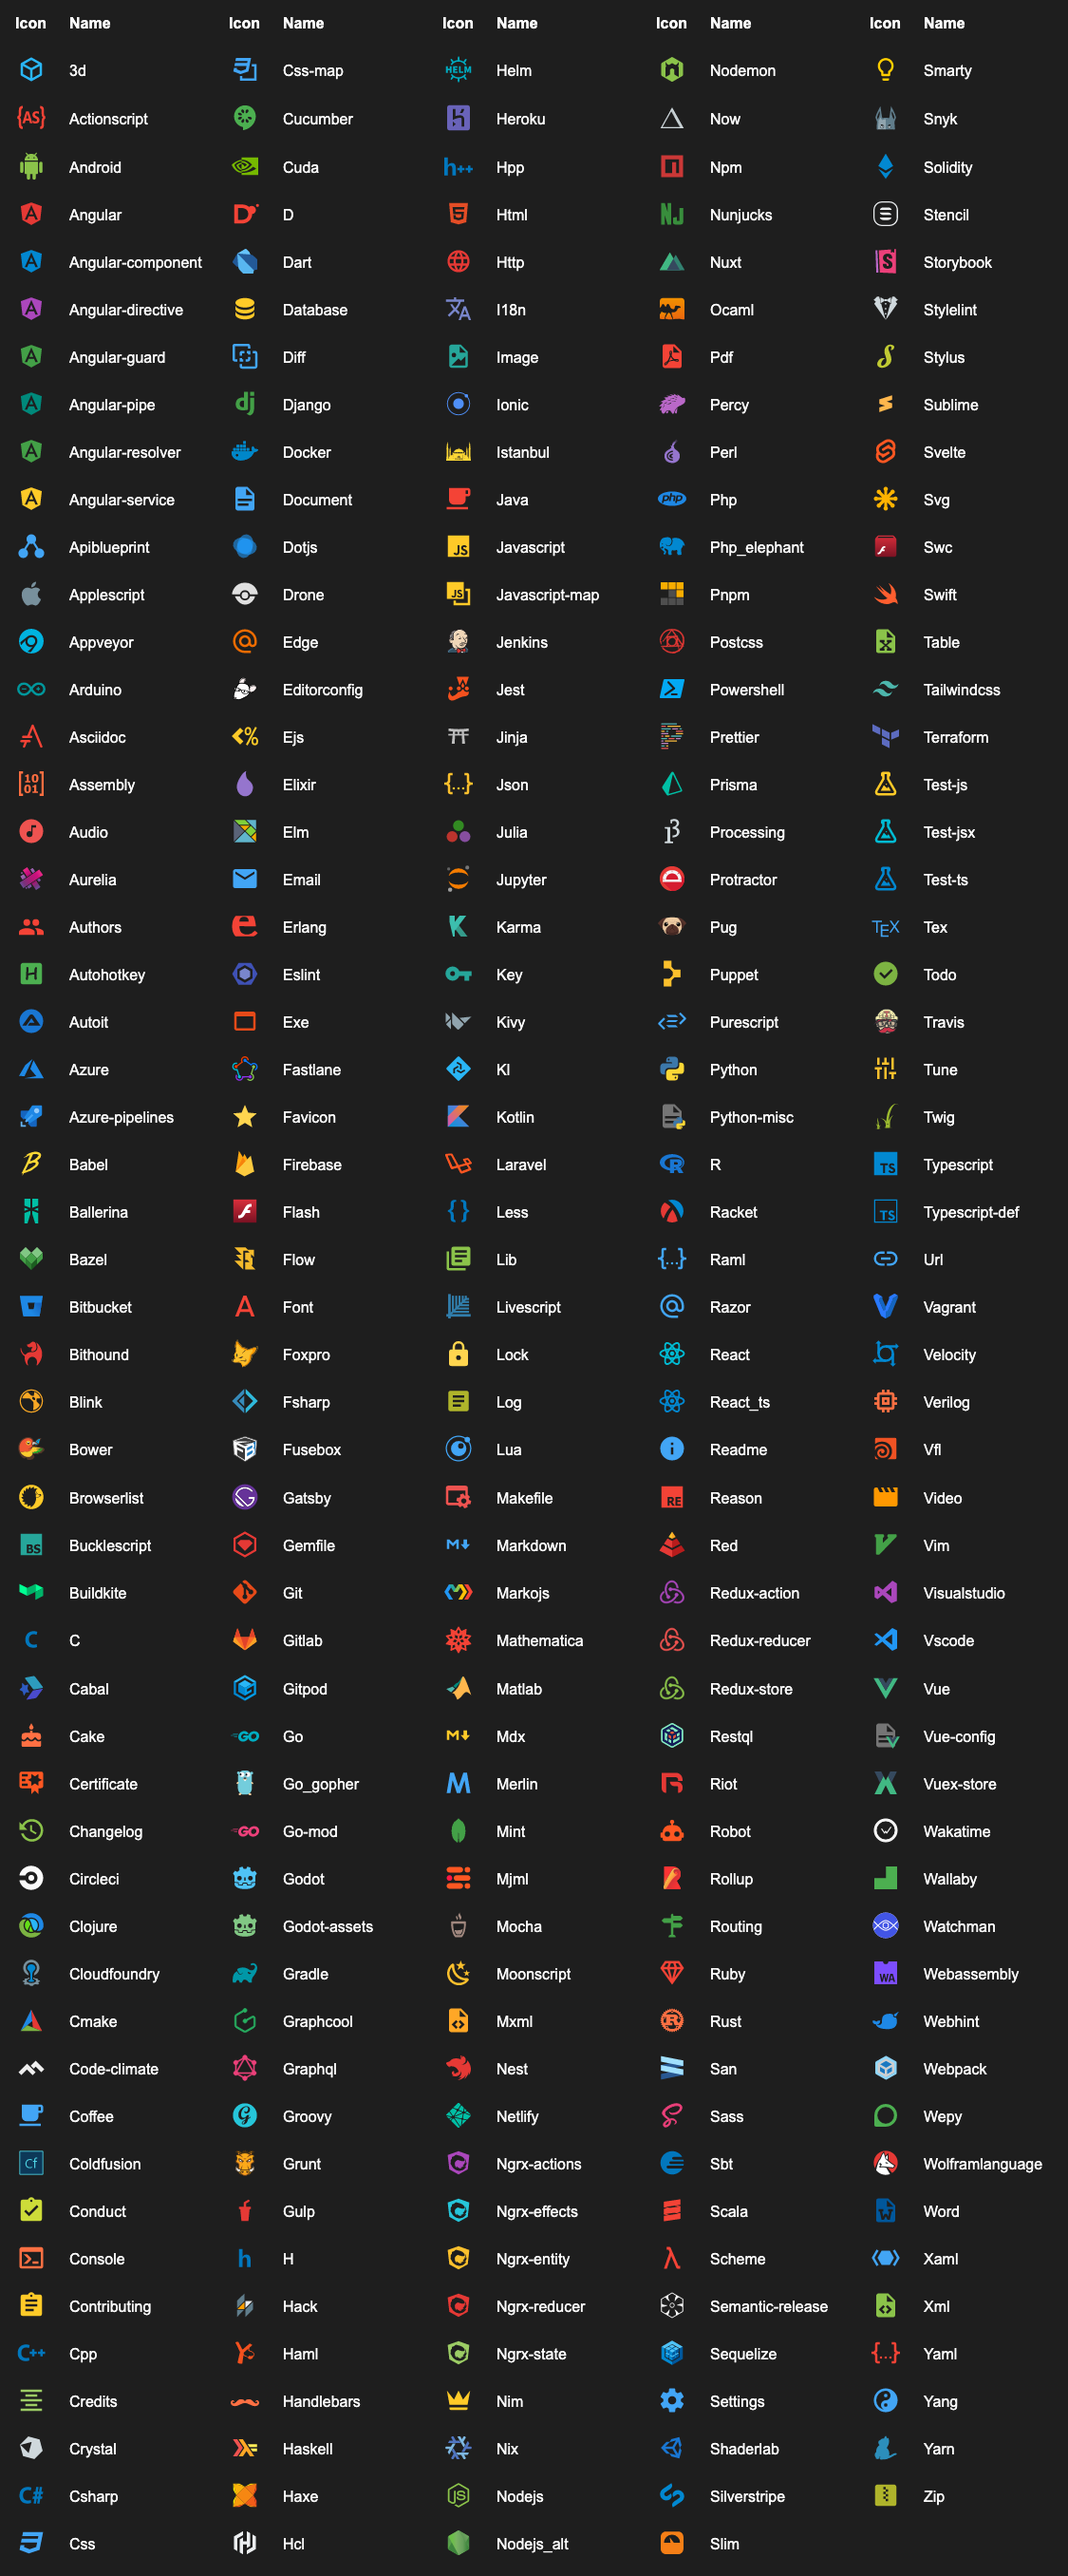
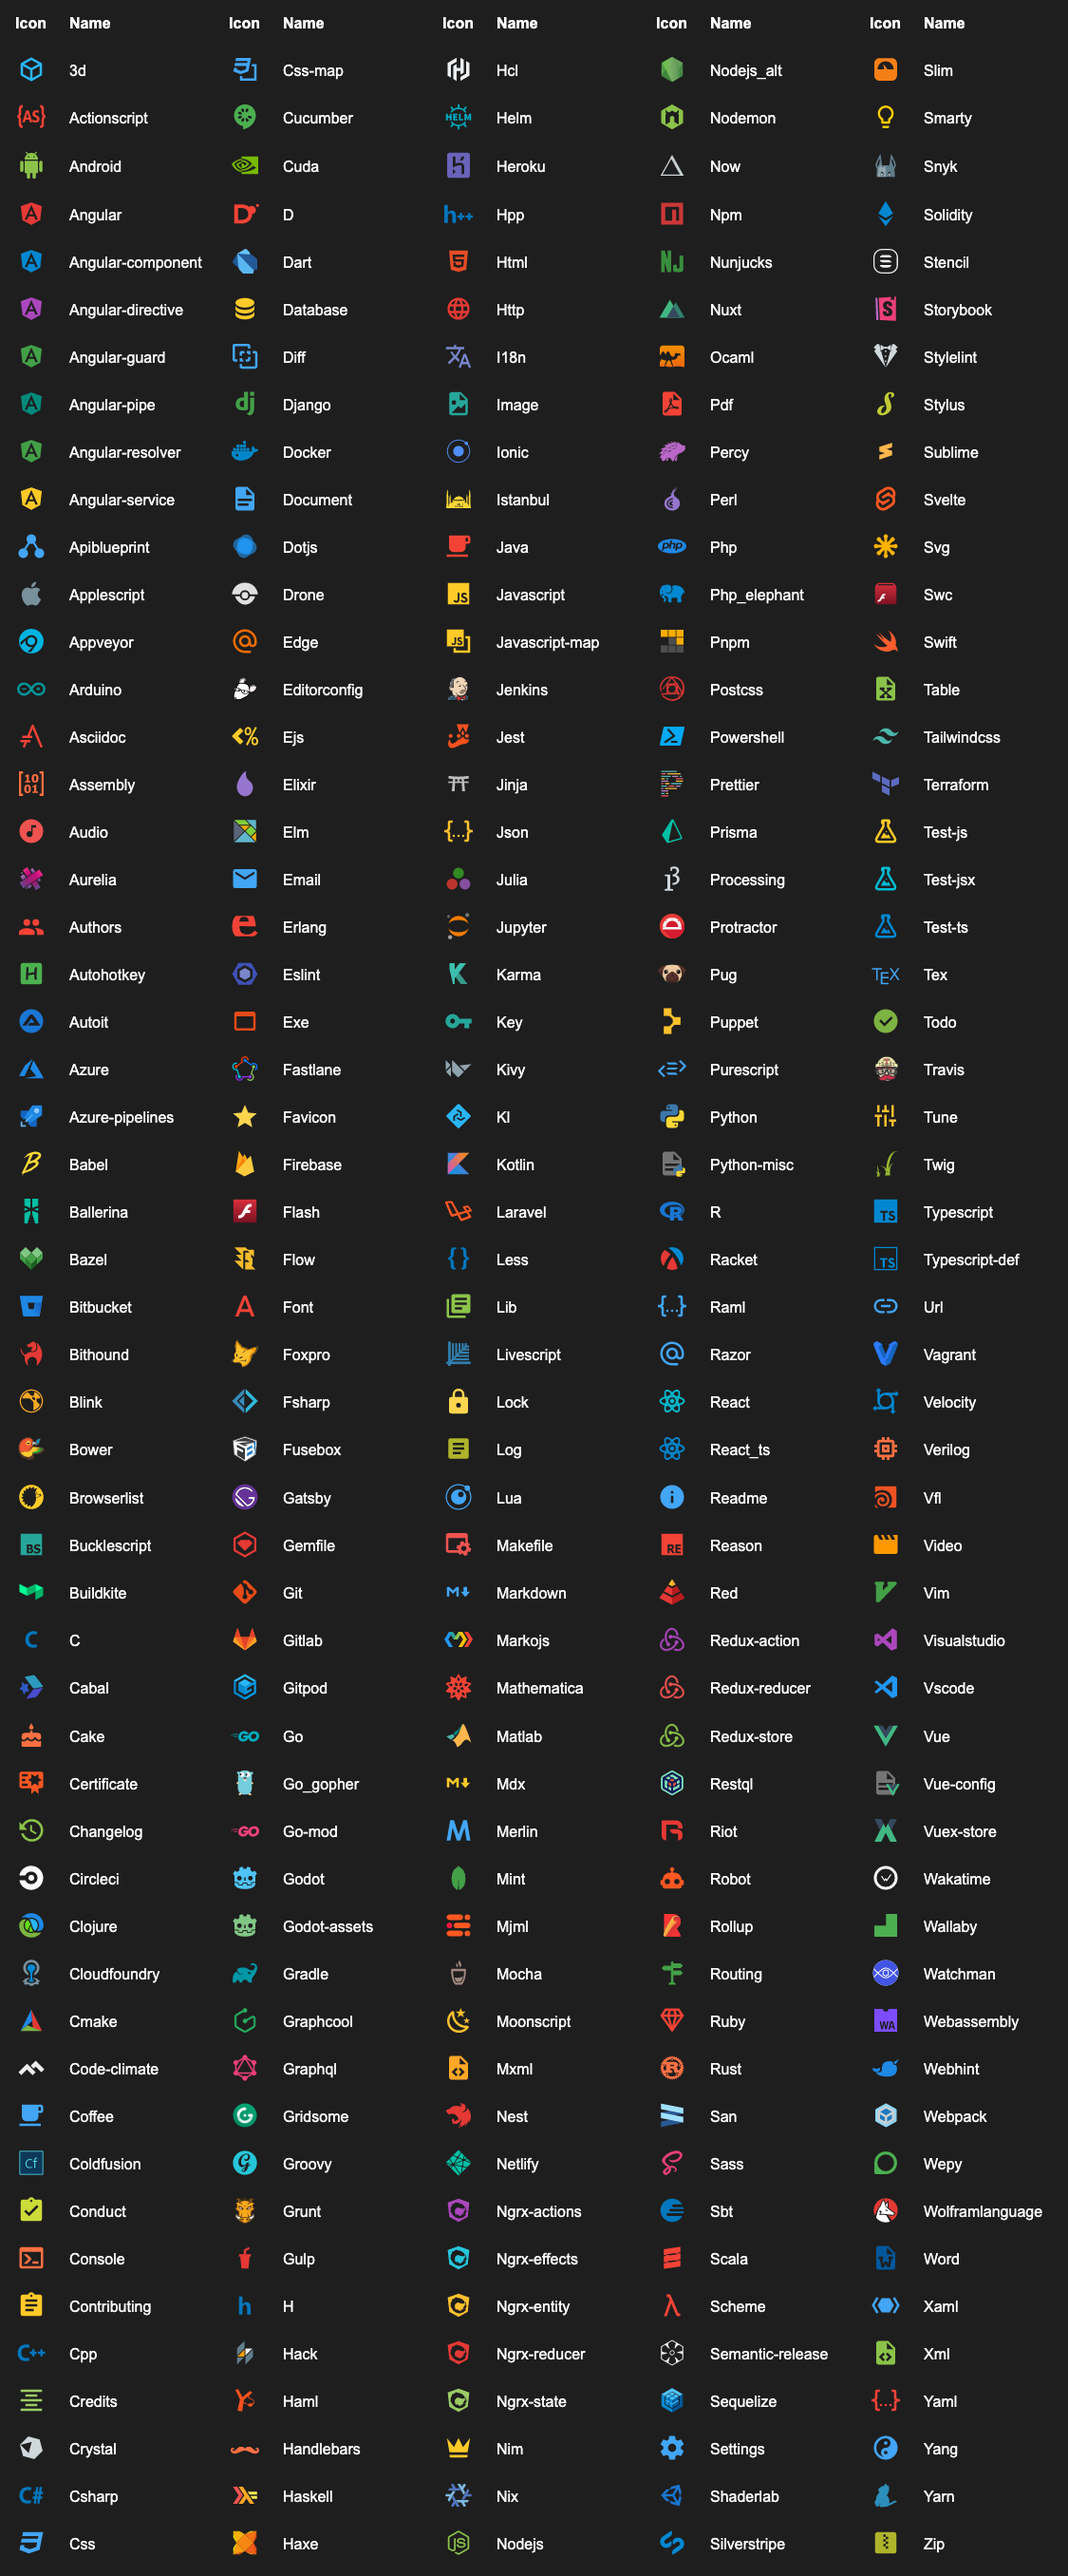
Add support for Gridsome-related files

diff --git a/src/icons/fileIcons.ts b/src/icons/fileIcons.ts
@@ -806,5 +806,6 @@ export const fileIcons: FileIcons = {
         { name: 'percy', fileNames: ['.percy.yml'] },
         { name: 'gitpod', fileNames: ['.gitpod.yml'] },
         { name: 'pnpm', fileNames: ['pnpm-lock.yaml', 'pnpm-workspace.yaml', 'pnpmfile.js', 'pnpm-debug.log'] },
+        { name: 'gridsome', fileNames: ['gridsome.config.js', 'gridsome.server.js'] },
     ]
 };
